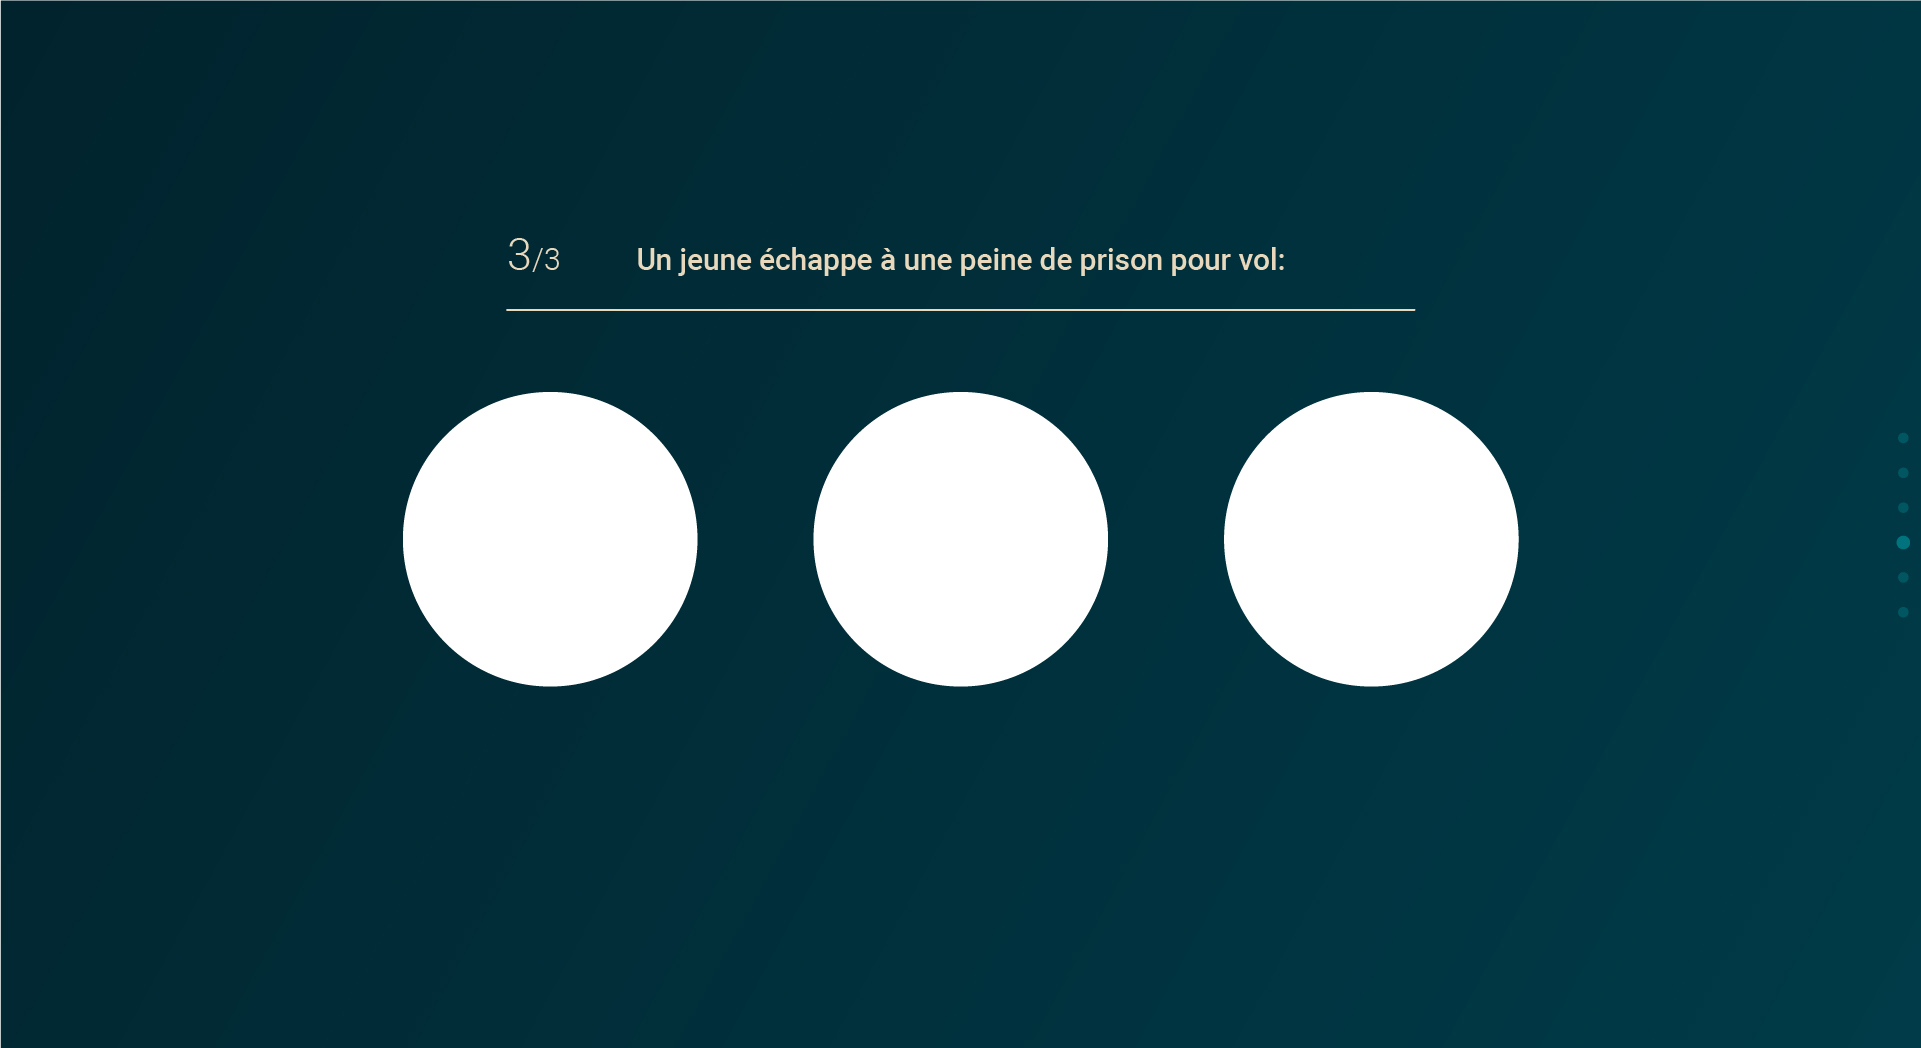
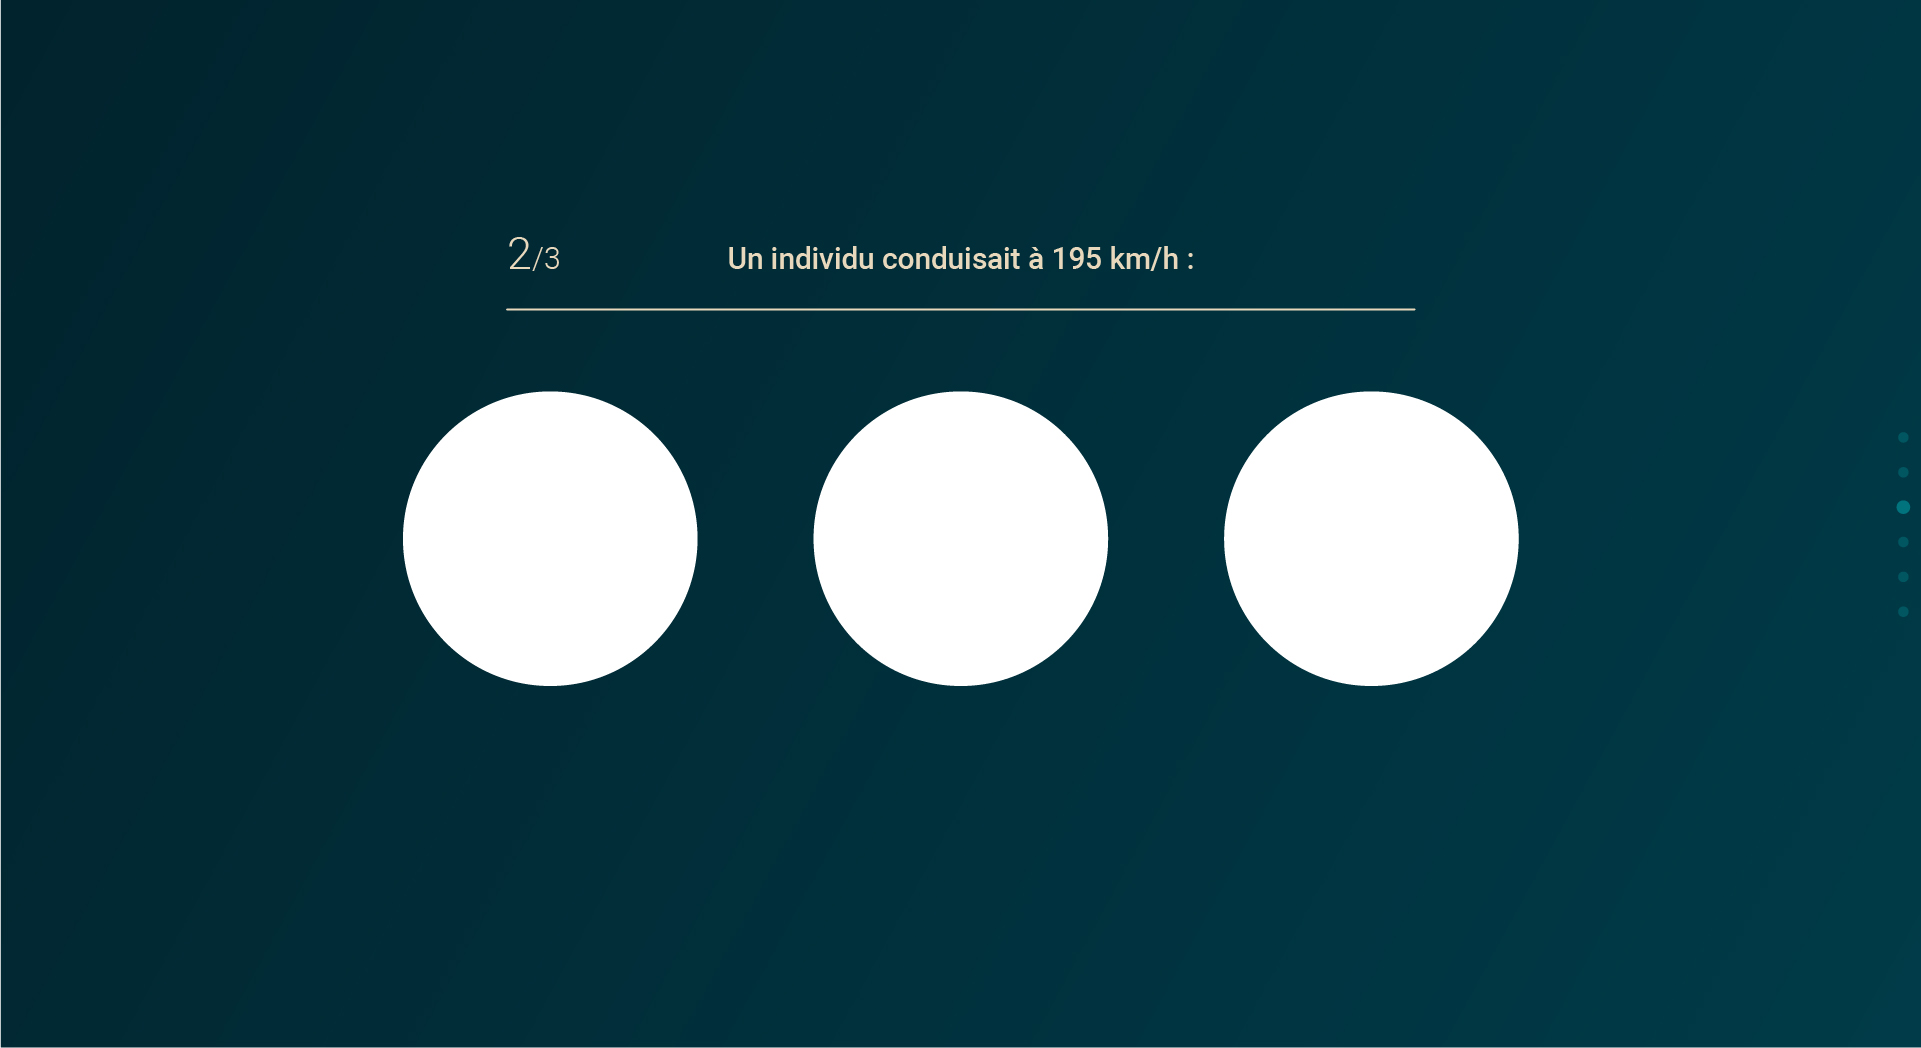
Quizz 1 + Quizz2 - Résultat + calcul score

Changed region(s): [[0.3436, 0.2137, 0.6559, 0.2748]]

diff --git a/press-pepper/public/js/nav.js b/press-pepper/public/js/nav.js
@@ -137,11 +137,69 @@ class ScrollPages {
 }
 
 document.addEventListener('DOMContentLoaded', function() {
-    var s = new ScrollPages(1,4,document.getElementById('all-pages'));
+	
+	var score=0;
+    var s = new ScrollPages(1,10,document.getElementById('all-pages'));
     s.init();
-		
+	
+	//Quizz 1 elem 1 -2 -3
 	i=document.getElementById("click");
-	i.onclick=function() { s.scrollTo(4); };
+	r=document.getElementById("clickT");
+	i.onclick=function() {i.style.borderRadius="50%";i.style.border = "thick solid red";setTimeout(function() {s.scrollTo(4);}, 700);};
+	i.onmouseover=function(){r.style.opacity="0.8";i.style.width="19%";};
+	i.onmouseout=function(){r.style.opacity="0.0";i.style.width="18%";};
+	
+	i1=document.getElementById("click2");
+	r2=document.getElementById("clickT2");
+	i1.onclick=function(){score++;i1.style.borderRadius="50%";i1.style.border = "thick solid green";	setTimeout(function() {s.scrollTo(4);}, 700);};
+	i1.onmouseover=function(){r2.style.opacity="0.8";i1.style.width="19%";};
+	i1.onmouseout=function(){r2.style.opacity="0.0";i1.style.width="18%";};
+	
+	r3=document.getElementById("clickT3");	
+	i2=document.getElementById("click3");
+	i2.onclick=function() {i2.style.borderRadius="50%";i2.style.border = "thick solid red";	setTimeout(function() {s.scrollTo(4);}, 700);};
+	i2.onmouseover=function(){r3.style.opacity="0.8";i2.style.width="19%";};
+	i2.onmouseout=function(){r3.style.opacity="0.0";i2.style.width="18%";};
+	
+	//quizz2 elem 1-2-3
+
+	ii=document.getElementById("clickk");
+	rr=document.getElementById("clickkT");
+	ii.onclick=function() {ii.style.borderRadius="50%";ii.style.border = "thick solid red";setTimeout(function() {s.scrollTo(6);}, 700);};
+	ii.onmouseover=function(){rr.style.opacity="0.8";ii.style.width="19%";};
+	ii.onmouseout=function(){rr.style.opacity="0.0";ii.style.width="18%";};
+	
+	ii1=document.getElementById("clickk2");
+	rr2=document.getElementById("clickkT2");
+	ii1.onclick=function(){score++;ii1.style.borderRadius="50%";ii1.style.border = "thick solid green";	setTimeout(function() {s.scrollTo(6);}, 700);};
+	ii1.onmouseover=function(){rr2.style.opacity="0.8";ii1.style.width="19%";};
+	ii1.onmouseout=function(){rr2.style.opacity="0.0";ii1.style.width="18%";};
+	
+	rr3=document.getElementById("clickkT3");	
+	ii2=document.getElementById("clickk3");
+	ii2.onclick=function() {ii2.style.borderRadius="50%";ii2.style.border = "thick solid red";	setTimeout(function() {s.scrollTo(6);}, 700);};
+	ii2.onmouseover=function(){rr3.style.opacity="0.8";ii2.style.width="19%";};
+	ii2.onmouseout=function(){rr3.style.opacity="0.0";ii2.style.width="18%";};
+	
+	//quizz3 elem 1-2-3
+
+	/*iii=document.getElementById("click");
+	rrr=document.getElementById("clickT");
+	iii.onclick=function() {iii.style.borderRadius="50%";iii.style.border = "thick solid red";setTimeout(function() {s.scrollTo(4);}, 700);};
+	iii.onmouseover=function(){rrr.style.opacity="0.8";iii.style.width="19%";};
+	iii.onmouseout=function(){rrr.style.opacity="0.0";iii.style.width="18%";};
+	
+	iii1=document.getElementById("click2");
+	rrr2=document.getElementById("clickT2");
+	iii1.onclick=function(){score++;iii1.style.borderRadius="50%";iii1.style.border = "thick solid green";	setTimeout(function() {s.scrollTo(4);}, 700);};
+	iii1.onmouseover=function(){rrr2.style.opacity="0.8";iii1.style.width="19%";};
+	iii1.onmouseout=function(){rrr2.style.opacity="0.0";iii1.style.width="18%";};
+	
+	rrr3=document.getElementById("clickT3");	
+	iii2=document.getElementById("click3");
+	iii2.onclick=function() {iii2.style.borderRadius="50%";iii2.style.border = "thick solid red";	setTimeout(function() {s.scrollTo(4);}, 700);};
+	iii2.onmouseover=function(){rrr3.style.opacity="0.8";iii2.style.width="19%";};
+	iii2.onmouseout=function(){rrr3.style.opacity="0.0";iii2.style.width="18%";};*/
 	
 	var delayInMilliseconds = 3000; 
 	setTimeout(function() {

diff --git a/press-pepper/public/index.html b/press-pepper/public/index.html
@@ -57,19 +57,56 @@
 	    <img src="img/accueil.png" alt="accueil" style="width:100%;height:100%;">
       </section>
 	  
+	  
+	  	  <!-- quizz 1 -->
 	   <section class="page" style="position:relative;">
-			<div class="logo">
-				<img id="click" style="width:18%;height:18%px;position:absolute;left:19%;top:35%;" src="anim/sansfond/bourré.gif" alt="Quizz1_test" >
-			</div>
-			<img style="width:18%;height:18%px;position:absolute;left:41%;top:35%;" src="anim/sansfond/bourré.gif" alt="Quizz1_test" >
-	   		<img style="width:18%;height:18%px;position:absolute;left:62.5%;top:35%;" src="anim/sansfond/bourré.gif" alt="Quizz1_test" >
+			<div class="zoom">
+				<img id="click" style="width:18%;height:18%px;position:absolute;left:19.5%;top:35%;" src="anim/sansfond/bourré.gif" alt="Quizz1_test" >
+				<img id="click2" style="width:18%;height:18%px;position:absolute;left:41%;top:35%;" src="anim/sansfond/velo.gif" alt="Quizz2_test" >
+				<img id="click3" style="width:18%;height:18%px;position:absolute;left:62.5%;top:35%;" src="anim/sansfond/mamie.gif" alt="Quizz3_test" >
+			</div> 
 
-			
+			<img id="clickT" style="opacity:0.0;width:25%;position:absolute;left:16%;top:80%;" src="img/velo.png" alt="Quizz1t_test" >
+			<img id="clickT2" style="opacity:0.0;width:25%;position:absolute;left:38%;top:80%;" src="img/velo.png" alt="Quizz1t2_test" >
+			<img id="clickT3" style="opacity:0.0;width:22%;position:absolute;left:60%;top:80%;" src="img/meme.png" alt="Quizz1t3_test" >
+
+
 			
 			<img src="img/quizz_1.jpg" alt="Quizz1_test" style="width:100%;height:100%;">
       </section>
 	  
+	  	  <!-- résultat quizz  1 -->
+
+	   <section class="page">
+					<img src="img/res_quizz1.png" alt="Quizz1_test" style="width:100%;height:100%;">
+
+		</section>
+	  
+	  <!-- quizz 2 -->
+	   <section class="page" style="position:relative;">
+			<div class="zoom">
+				<img id="clickk" style="width:18%;height:18%px;position:absolute;left:19.5%;top:35%;" src="anim/sansfond/braceletelectro.gif" alt="Quizz1_test" >
+				<img id="clickk2" style="width:18%;height:18%px;position:absolute;left:41%;top:35%;" src="anim/sansfond/police.gif" alt="Quizz2_test" >
+				<img id="clickk3" style="width:18%;height:18%px;position:absolute;left:62.5%;top:35%;" src="anim/sansfond/montre.gif" alt="Quizz3_test" >
+			</div> 
+
+			<img id="clickkT" style="opacity:0.0;width:25%;position:absolute;left:16%;top:80%;" src="img/velo.png" alt="Quizz1t_test" >
+			<img id="clickkT2" style="opacity:0.0;width:25%;position:absolute;left:38%;top:80%;" src="img/velo.png" alt="Quizz1t2_test" >
+			<img id="clickkT3" style="opacity:0.0;width:22%;position:absolute;left:60%;top:80%;" src="img/meme.png" alt="Quizz1t3_test" >
+
+
+			
+			<img src="img/quizz_2.jpg" alt="Quizz1_test" style="width:100%;height:100%;">
+      </section>
+	<!-- fin quizz 2 -->
+
 	
+	  <!-- résultat quizz  2 -->
+
+	   <section class="page">
+					<img src="img/res_quizz2.png" alt="Quizz1_test" style="width:100%;height:100%;">
+
+		</section>
 	  
       <section class="page">
         <div class="container">

diff --git a/press-pepper/public/css/nav.css b/press-pepper/public/css/nav.css
@@ -44,13 +44,13 @@
     position:relative;
     top:50%;
     margin:0 40px;
-    opacity:0;
+    opacity:1;
     visibility:visible;
     transform:translateY(-50%);
     transition:all 3s ease;
 }
 .text-container.in-sight{
-    opacity:1;
+    opacity:0;
     visibility:visible;
 }
 .text-container h2{

diff --git a/press-pepper/public/css/style.css b/press-pepper/public/css/style.css
@@ -18,10 +18,3 @@ header img{
 	width: 800px;
  }
  
- 
- .logo .hover
- {
-	transition: .5s ease;
-	height:20%;
-	width:20%;
- }
